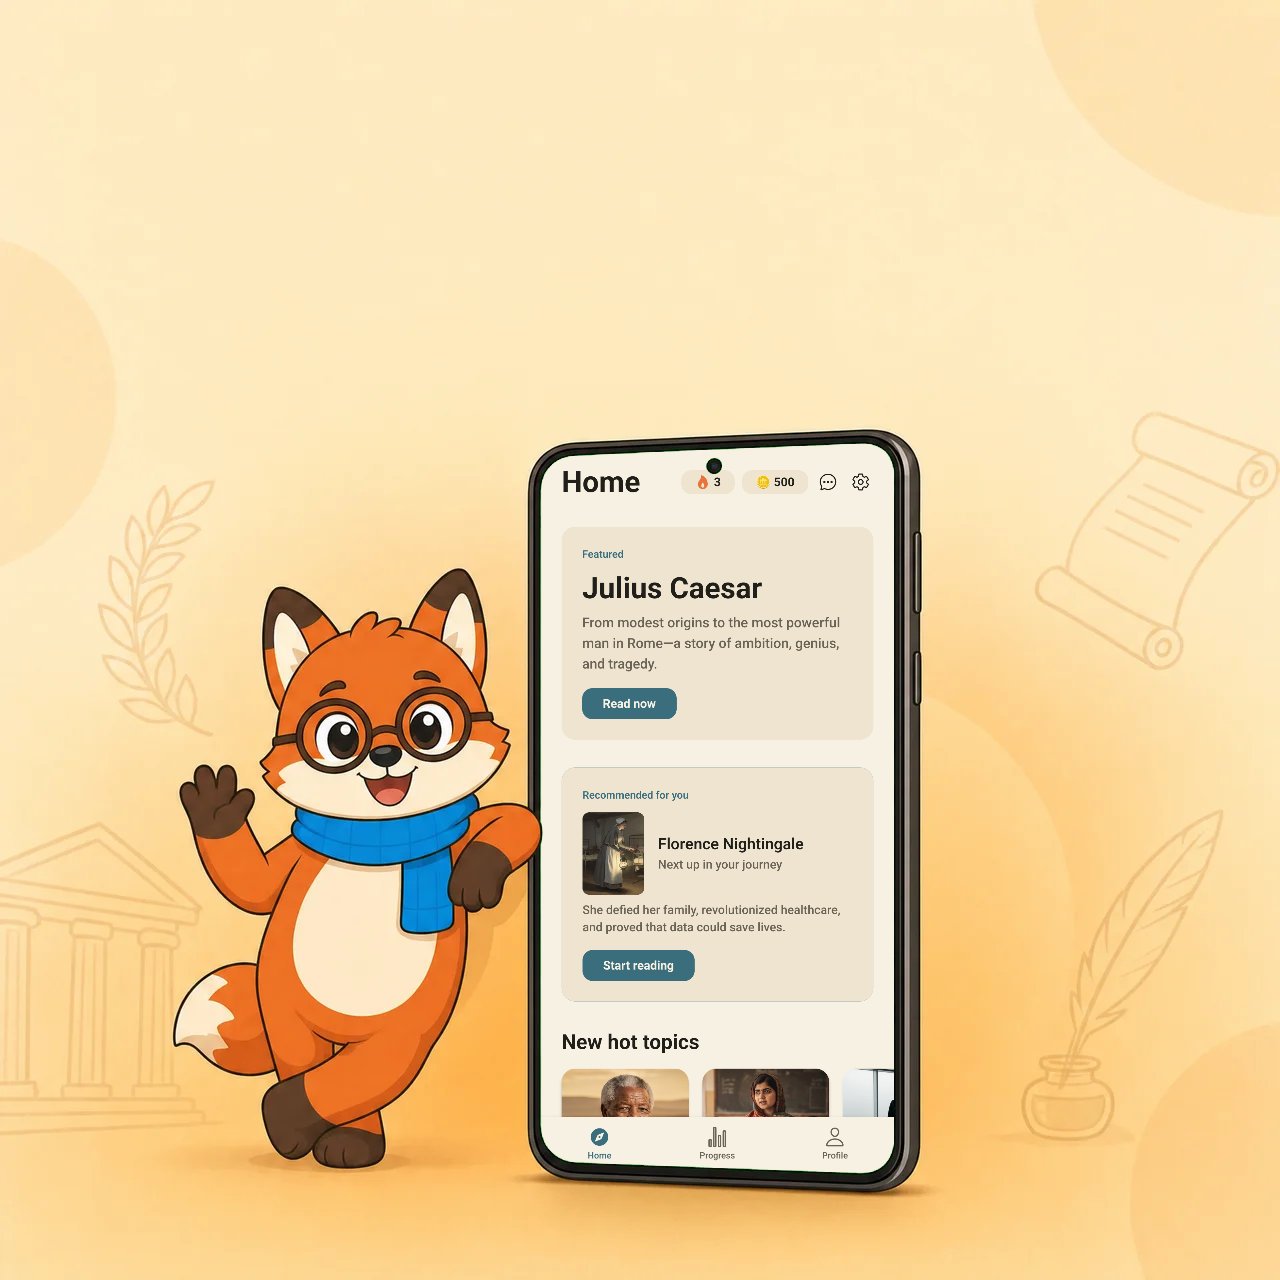
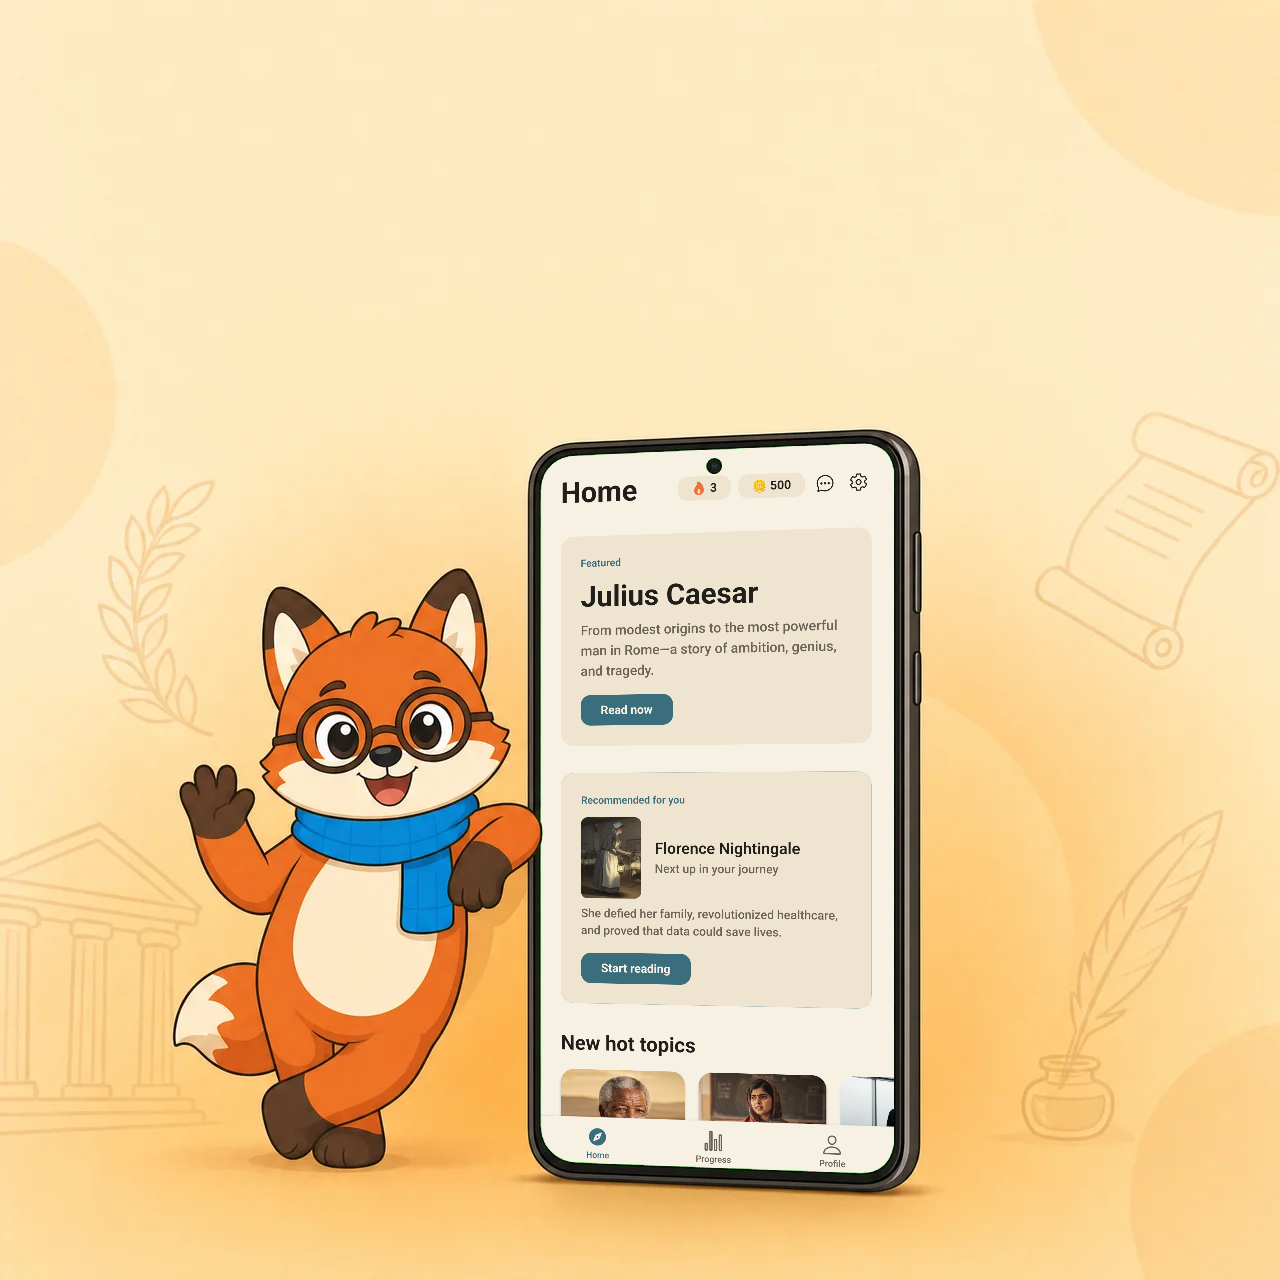
Store screenshots: perspective-correct screen placement, four slides (widget and chapters slides dropped)

diff --git a/store/screenshots.html b/store/screenshots.html
@@ -4,7 +4,7 @@
 
   Zelfde aanpak als feature-graphic.html: dit bestand is de bron, de PNG's niet. Elke dia is
   1080×1920 (9:16, wat Play wil) en wordt door `npm run generate:store-screenshots` met headless
-  Chrome gerenderd — één keer per dia, met `?n=1` t/m `?n=6`. Open hem in een browser met
+  Chrome gerenderd — één keer per dia, met `?n=1` t/m `?n=4`. Open hem in een browser met
   `?n=3` om één dia te bekijken.
 
   De schermen zelf zijn echte emulator-screenshots (`store/screenshots-bron/`, 1080×2400). De
@@ -154,24 +154,12 @@
       scene: 'scenes/klaar/scene-2-streak.png', achtergrond: '#FFEBC2', tekst: '#4A2C1A', sceneLinks: -324,
     },
     {
-      kop: 'Your streak on<br>your home screen',
-      sub: 'Add the widget and the fox reminds you before midnight.',
-      van: '#FFEBC2', naar: '#FDD48E', tekst: '#4A2C1A',
-      scherm: 'homescreen.png', statusbalk: '#CED1DB', vos: 'fase-4-avond.png', kant: 'rechts', spiegel: true,
-    },
-    {
       kop: 'Earn Ducats,<br>save your streak',
       sub: 'Read to earn coins and buy a streak freeze for busy days.',
       van: '#38BDF8', naar: '#1D4ED8',
       scherm: 'shop.png', vos: 'fase-8-ijs.png', kant: 'links',
       // Telefoon links-midden, vos op het ijsblok rechts: zo vallen allebei binnen de 1080 px.
       scene: 'scenes/klaar/scene-3-shop.png', achtergrond: '#FFEBC2', tekst: '#4A2C1A', sceneLinks: -550,
-    },
-    {
-      kop: 'Unlock chapter<br>after chapter',
-      sub: 'Finish a story to add its hero to your collection.',
-      van: '#FFEBC2', naar: '#FDD48E', tekst: '#4A2C1A',
-      scherm: 'hoofdstukken.png', vos: 'zwaaiend.png', kant: 'rechts', spiegel: true,
     },
   ];
 
